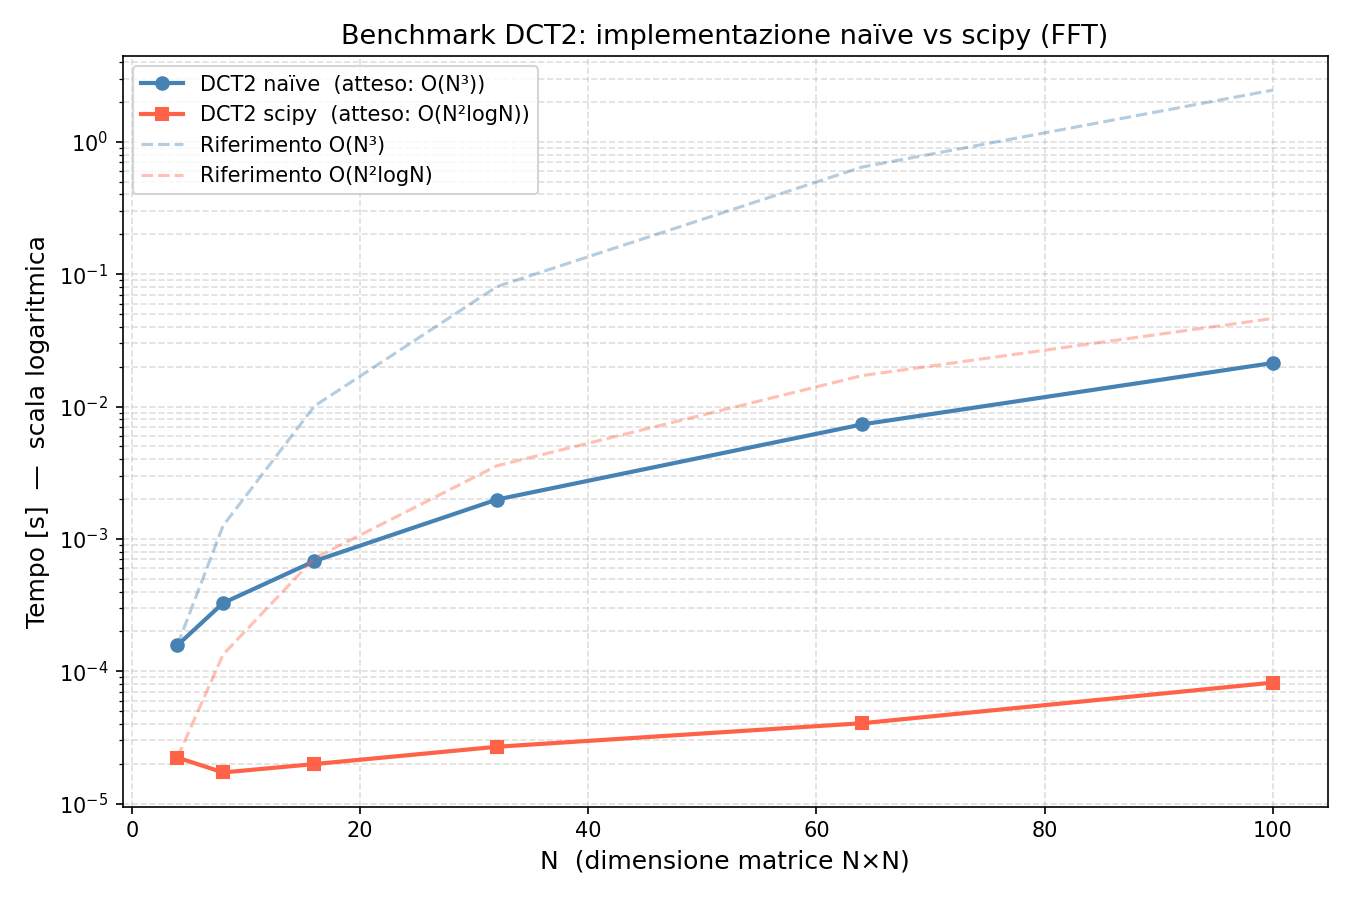
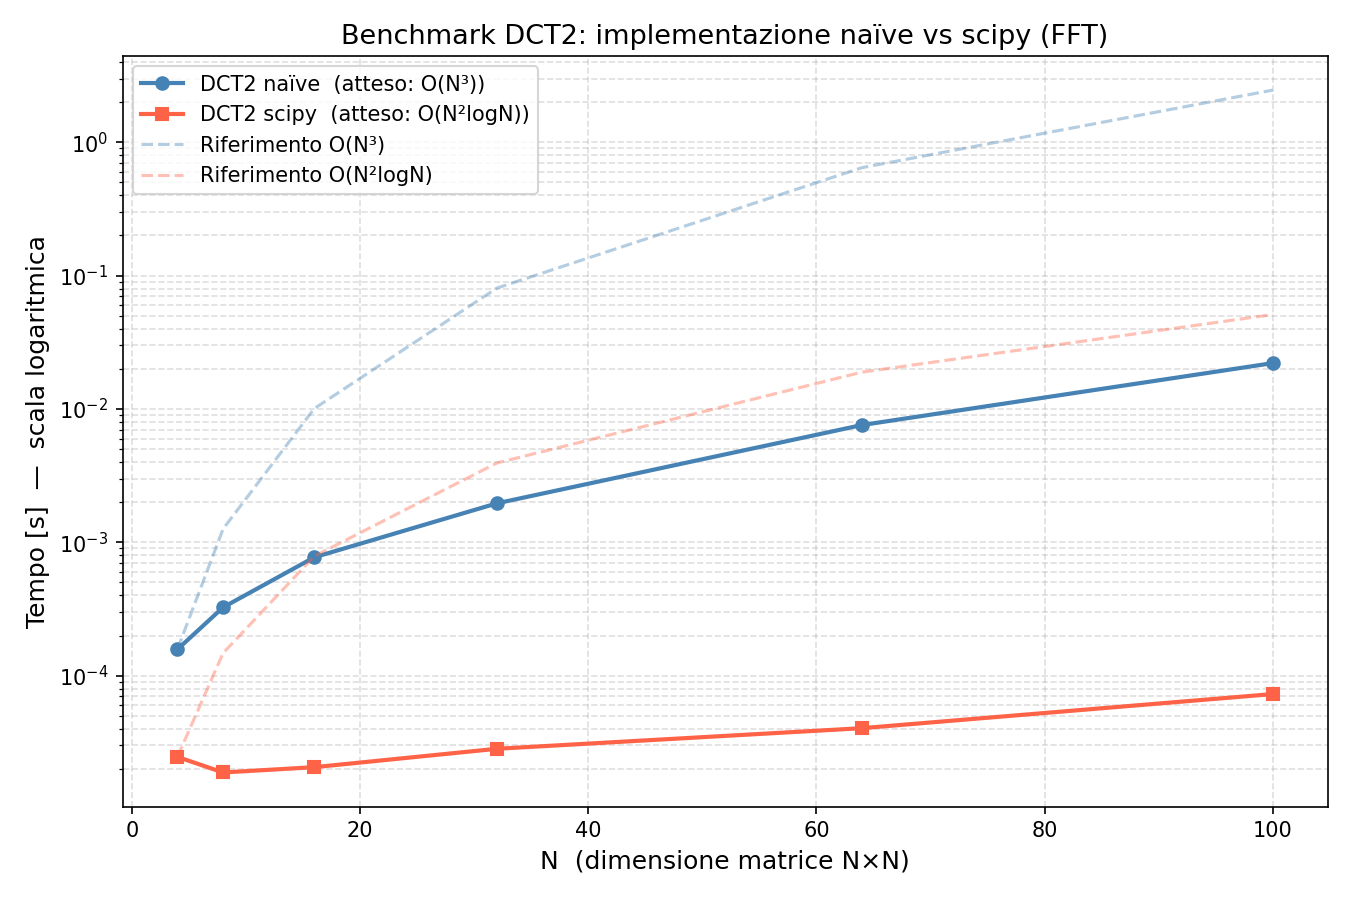
.

diff --git a/parte2/compressore.py b/parte2/compressore.py
@@ -6,6 +6,7 @@ from PIL import Image, ImageTk
 import matplotlib.pyplot as plt
 from dct_utils import compress_image, create_mask
 
+
 class ImageCompressorApp:
     def __init__(self, root):
         self.root = root
@@ -37,22 +38,34 @@ class ImageCompressorApp:
         frame_param = ttk.LabelFrame(self.root, text="2. Parametri")
         frame_param.pack(fill="x", padx=10, pady=10)
 
-        ttk.Label(frame_param, text="F (dimensione blocco):").grid(row=0, column=0, padx=10, pady=8, sticky="w")
+        ttk.Label(frame_param, text="F (dimensione blocco):").grid(
+            row=0, column=0, padx=10, pady=8, sticky="w"
+        )
         self.var_F = tk.IntVar(value=8)
-        self.spin_F = ttk.Spinbox(frame_param, from_=2, to=64, textvariable=self.var_F, width=10)
+        self.spin_F = ttk.Spinbox(
+            frame_param, from_=2, to=64, textvariable=self.var_F, width=10
+        )
         self.spin_F.grid(row=0, column=1, padx=10, pady=8)
 
-        ttk.Label(frame_param, text="d (soglia frequenze):").grid(row=1, column=0, padx=10, pady=8, sticky="w")
+        ttk.Label(frame_param, text="d (soglia frequenze):").grid(
+            row=1, column=0, padx=10, pady=8, sticky="w"
+        )
         self.var_d = tk.IntVar(value=5)
-        self.spin_d = ttk.Spinbox(frame_param, from_=0, to=14, textvariable=self.var_d, width=10)
+        self.spin_d = ttk.Spinbox(
+            frame_param, from_=0, to=14, textvariable=self.var_d, width=10
+        )
         self.spin_d.grid(row=1, column=1, padx=10, pady=8)
 
-        self.label_range = ttk.Label(frame_param, text="Con F=8, d deve stare tra 0 e 14")
+        self.label_range = ttk.Label(
+            frame_param, text="Con F=8, d deve stare tra 0 e 14"
+        )
         self.label_range.grid(row=1, column=2, padx=10, pady=8, sticky="w")
 
         self.var_F.trace_add("write", self.update_range_d)
 
-        btn_execute = ttk.Button(self.root, text="Comprimi e visualizza", command=self.execute)
+        btn_execute = ttk.Button(
+            self.root, text="Comprimi e visualizza", command=self.execute
+        )
         btn_execute.pack(pady=20)
 
     def update_range_d(self, *_):
@@ -66,15 +79,14 @@ class ImageCompressorApp:
 
     def load_image(self):
         path = filedialog.askopenfilename(
-            title="Seleziona immagine BMP",
-            filetypes=[("Bitmap", "*.bmp")]
+            title="Seleziona immagine BMP", filetypes=[("Bitmap", "*.bmp")]
         )
 
         if not path:
             return
 
         try:
-            img = Image.open(path).convert("L")
+            img = Image.open(path)
             self.img_array = np.array(img, dtype=np.uint8)
             self.label_file.config(text=path.split("/")[-1])
             self.update_preview()
@@ -138,10 +150,8 @@ class ImageCompressorApp:
 
         axes[1].imshow(compressa, cmap="gray", vmin=0, vmax=255)
         axes[1].set_title(
-            f"Compressa\n"
-            f"F={F}, d={d} | "
-            f"Coef. mantenuti: {kept_pct:.1f}%",
-            fontsize=10
+            f"Compressa\n" f"F={F}, d={d} | " f"Coef. mantenuti: {kept_pct:.1f}%",
+            fontsize=10,
         )
         axes[1].axis("off")
 

diff --git a/parte2/dct_utils.py b/parte2/dct_utils.py
@@ -12,7 +12,7 @@ def create_mask(F, d):
 # divide l'immagine in blocchi F x F, scarta gli avanzi e ricompone
 def compress_image(img_array, F, d):
     H, W = img_array.shape
-    
+
     # Scarta gli avanzi (Discard remaining pixels instead of padding)
     H_new = H - (H % F)
     W_new = W - (W % F)
@@ -28,9 +28,11 @@ def compress_image(img_array, F, d):
             r0, r1 = i * F, (i + 1) * F
             c0, c1 = j * F, (j + 1) * F
             block = img_array[r0:r1, c0:c1]
-            c = dctn(block.astype(float), norm='ortho')
+            c = dctn(block.astype(float), norm="ortho")
             c[~mask] = 0.0
-            reconstructed = idctn(c, norm='ortho')
-            compressed[r0:r1, c0:c1] = np.clip(np.round(reconstructed), 0, 255).astype(np.uint8)
+            reconstructed = idctn(c, norm="ortho")
+            compressed[r0:r1, c0:c1] = np.clip(np.round(reconstructed), 0, 255).astype(
+                np.uint8
+            )
 
     return compressed